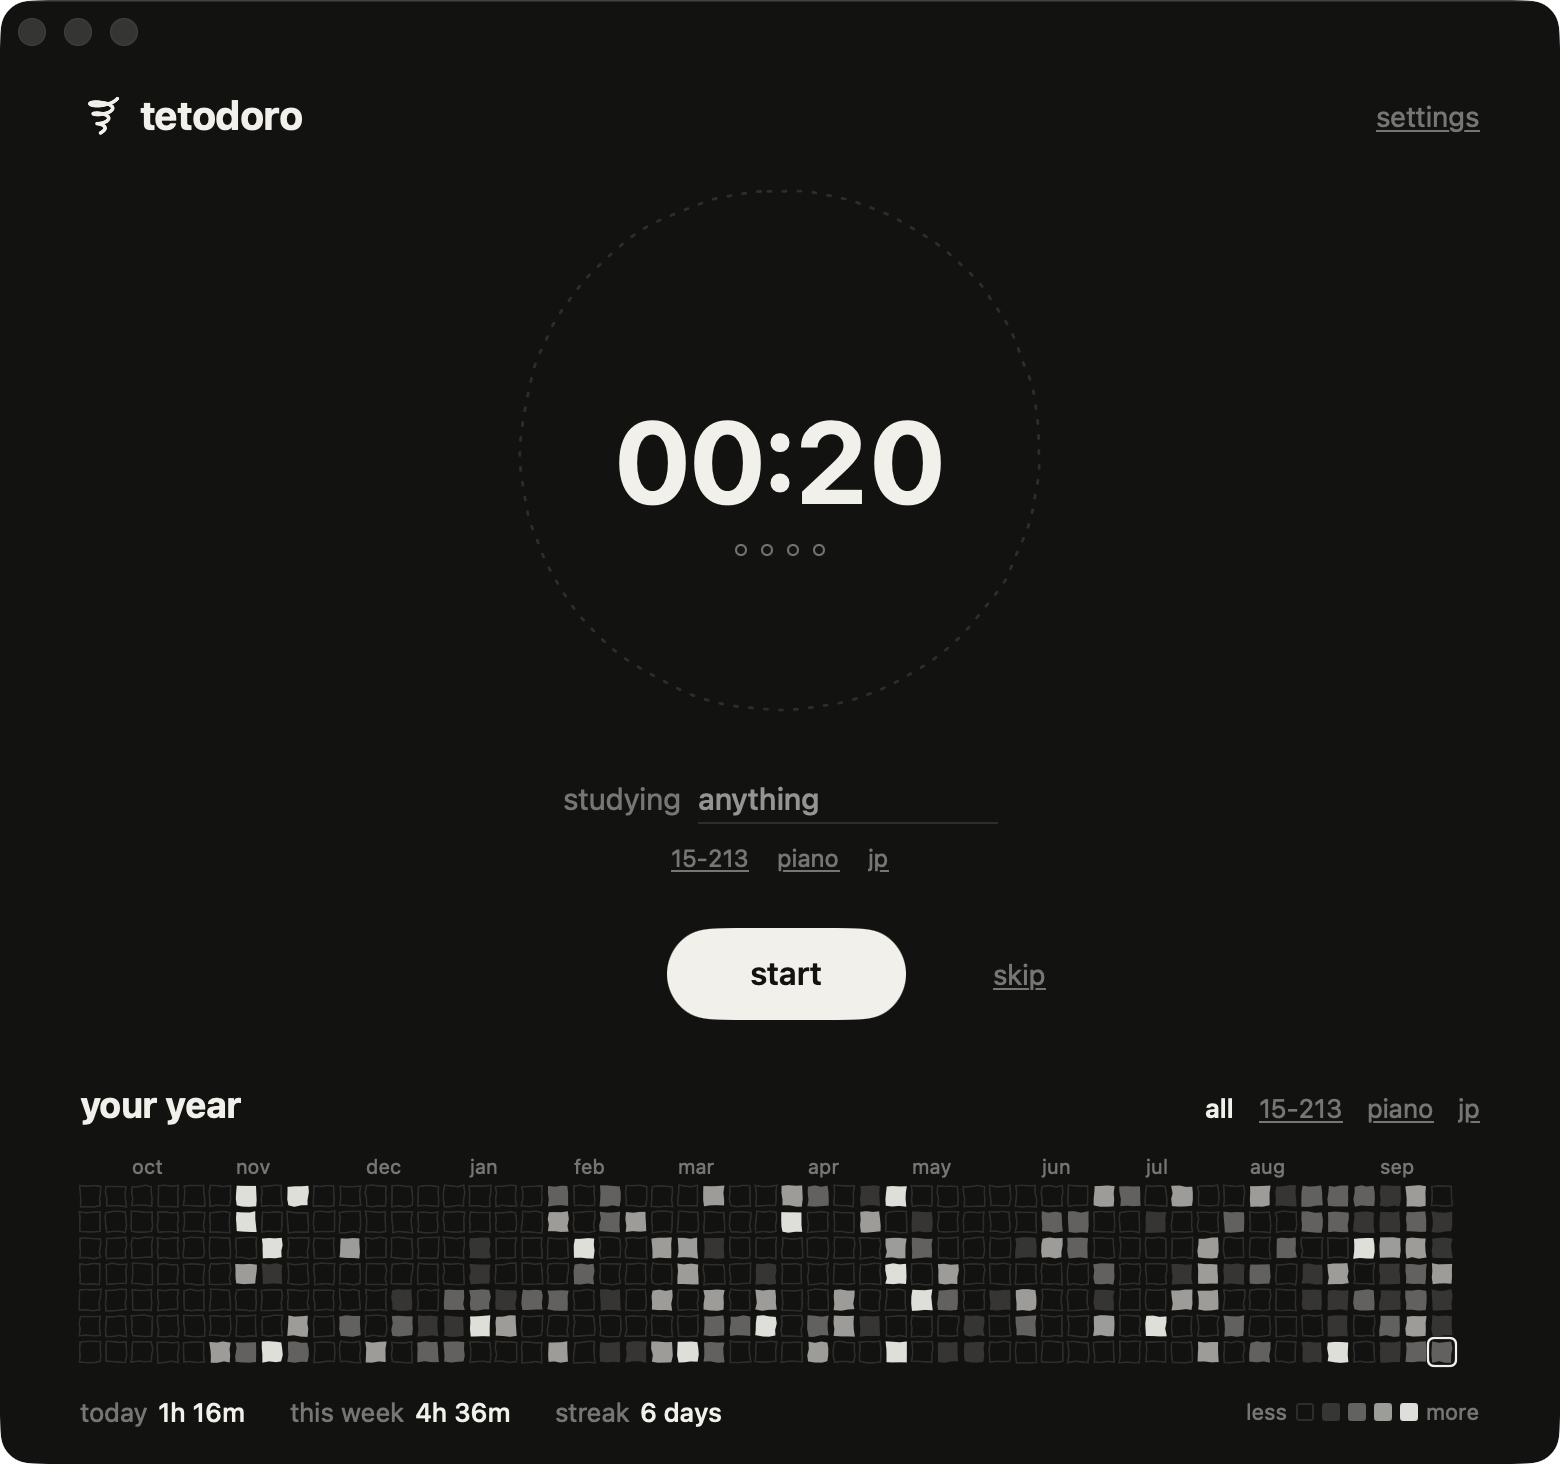
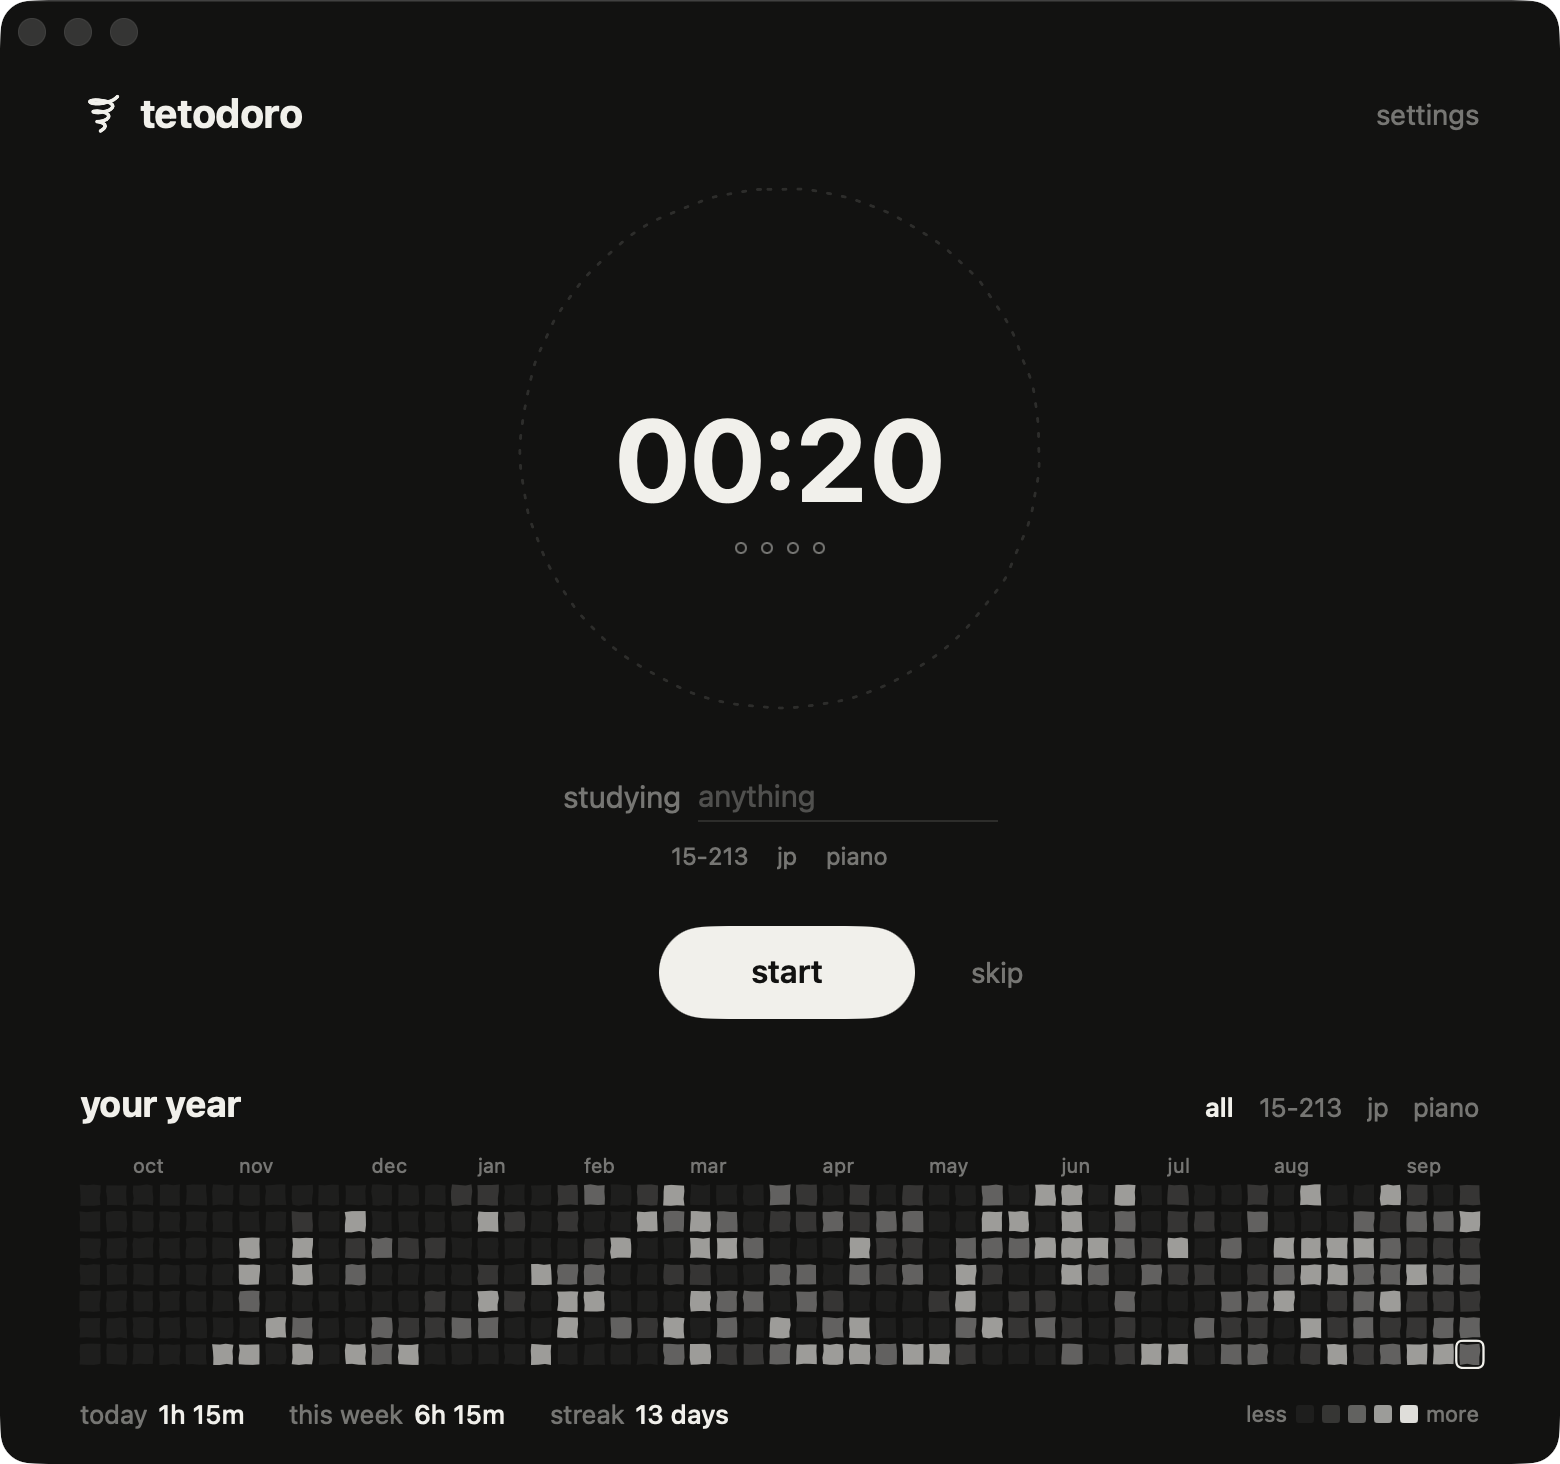
polish: quieter links, calmer heatmap, link the site in the readme
- secondary actions are faint words that darken on hover, no underlines
- empty heatmap days are a faint wash; the grid spans the full width
- the capsule keeps one width across start/pause
- settings: lowercase-friendly untitled window, labelled appearance row
- site: feature row, link previews, hover and focus states
- readme links the website; screenshots retaken

diff --git a/Sources/TetodoroApp/Views/HeatmapView.swift b/Sources/TetodoroApp/Views/HeatmapView.swift
@@ -74,49 +74,65 @@ private struct TagFilter: View {
 }
 
 private enum Cell {
-    static let size: CGFloat = 10
-    static let gap: CGFloat = 3
-    static let pitch = size + gap
+    /// Gap as a fraction of the pitch; the cell size follows from the width.
+    static let gapRatio: CGFloat = 0.24
     static let monthRow: CGFloat = 16
     static let margin: CGFloat = 3
     static let ink: [Double] = [0, 0.16, 0.36, 0.62, 0.92]
+    /// Empty days: a faint wash, quieter than an outline at 365 cells.
+    static let empty = Ink.ink.opacity(0.055)
+}
+
+/// Cell geometry for a grid of `columns` weeks stretched across `width`.
+private struct GridMetrics {
+    let pitch: CGFloat
+    var size: CGFloat { pitch * (1 - Cell.gapRatio) }
+    var height: CGFloat { Cell.monthRow + 7 * pitch - (pitch - size) + Cell.margin }
+
+    init(width: CGFloat, columns: Int) {
+        let usable = width - Cell.margin * 2
+        let n = CGFloat(max(columns, 1))
+        pitch = usable / (n - Cell.gapRatio)
+    }
 }
 
 private struct HeatGrid: View {
     let heatmap: Heatmap
     @Binding var hovered: HeatmapDay?
+    @State private var width: CGFloat = 706
 
     var body: some View {
-        let columns = heatmap.weeks.count
+        let m = GridMetrics(width: width, columns: heatmap.weeks.count)
         Canvas { ctx, _ in
             // Inset so the today/hover outline has room at the grid's edges.
             ctx.translateBy(x: Cell.margin, y: 0)
-            drawMonths(ctx)
+            drawMonths(ctx, m)
             for (w, week) in heatmap.weeks.enumerated() {
                 for (d, day) in week.enumerated() {
                     guard let day else { continue }
-                    draw(day, in: rect(w, d), seed: UInt64(w * 7 + d), ctx: ctx)
+                    draw(day, in: rect(w, d, m), seed: UInt64(w * 7 + d), ctx: ctx)
                 }
             }
         }
-        .frame(width: CGFloat(columns) * Cell.pitch - Cell.gap + Cell.margin * 2,
-               height: Cell.monthRow + 7 * Cell.pitch - Cell.gap + Cell.margin)
+        .frame(maxWidth: .infinity)
+        .frame(height: m.height)
+        .onGeometryChange(for: CGFloat.self, of: \.size.width) { width = $0 }
         .padding(.horizontal, -Cell.margin)
         .onContinuousHover { phase in
             switch phase {
-            case .active(let p): hovered = day(at: p)
+            case .active(let p): hovered = day(at: p, m)
             case .ended: hovered = nil
             }
         }
     }
 
-    private func rect(_ w: Int, _ d: Int) -> CGRect {
-        CGRect(x: CGFloat(w) * Cell.pitch, y: Cell.monthRow + CGFloat(d) * Cell.pitch,
-               width: Cell.size, height: Cell.size)
+    private func rect(_ w: Int, _ d: Int, _ m: GridMetrics) -> CGRect {
+        CGRect(x: CGFloat(w) * m.pitch, y: Cell.monthRow + CGFloat(d) * m.pitch,
+               width: m.size, height: m.size)
     }
 
-    private func day(at p: CGPoint) -> HeatmapDay? {
-        let w = Int((p.x - Cell.margin) / Cell.pitch), d = Int((p.y - Cell.monthRow) / Cell.pitch)
+    private func day(at p: CGPoint, _ m: GridMetrics) -> HeatmapDay? {
+        let w = Int((p.x - Cell.margin) / m.pitch), d = Int((p.y - Cell.monthRow) / m.pitch)
         guard p.y >= Cell.monthRow, heatmap.weeks.indices.contains(w), (0..<7).contains(d) else { return nil }
         return heatmap.weeks[w][d]
     }
@@ -125,20 +141,16 @@ private struct HeatGrid: View {
         let square = Doodle.polygon(
             [CGPoint(x: r.minX, y: r.minY), CGPoint(x: r.maxX, y: r.minY),
              CGPoint(x: r.maxX, y: r.maxY), CGPoint(x: r.minX, y: r.maxY)],
-            seed: seed &* 31 &+ 7, amp: 0.45)
-        if day.level > 0 {
-            ctx.fill(square, with: .color(Ink.accent.opacity(Cell.ink[day.level])))
-        } else {
-            ctx.stroke(square, with: .color(Ink.ghost), lineWidth: 0.8)
-        }
+            seed: seed &* 31 &+ 7, amp: 0.35)
+        ctx.fill(square, with: .color(day.level > 0 ? Ink.accent.opacity(Cell.ink[day.level]) : Cell.empty))
         let isToday = Calendar.current.isDateInToday(day.date)
         if isToday || day == hovered {
-            ctx.stroke(Path(roundedRect: r.insetBy(dx: -2, dy: -2), cornerRadius: 3),
-                       with: .color(Ink.ink), lineWidth: isToday ? 1.2 : 1)
+            ctx.stroke(Path(roundedRect: r.insetBy(dx: -1.75, dy: -1.75), cornerRadius: 3),
+                       with: .color(isToday ? Ink.ink : Ink.faint), lineWidth: 1.1)
         }
     }
 
-    private func drawMonths(_ ctx: GraphicsContext) {
+    private func drawMonths(_ ctx: GraphicsContext, _ m: GridMetrics) {
         let calendar = Calendar.current
         var lastMonth = -1
         for (w, week) in heatmap.weeks.enumerated() {
@@ -151,7 +163,7 @@ private struct HeatGrid: View {
                     ctx.draw(
                         Text(first.date.formatted(.dateTime.month(.abbreviated)).lowercased())
                             .font(Ink.text(10)).foregroundStyle(Ink.faint),
-                        at: CGPoint(x: CGFloat(w) * Cell.pitch, y: 0), anchor: .topLeading)
+                        at: CGPoint(x: CGFloat(w) * m.pitch, y: 0), anchor: .topLeading)
                 }
                 lastMonth = month
             }
@@ -165,8 +177,7 @@ private struct Legend: View {
             Text("less")
             ForEach(0..<5, id: \.self) { level in
                 RoundedRectangle(cornerRadius: 1.5)
-                    .fill(level == 0 ? Color.clear : Ink.accent.opacity(Cell.ink[level]))
-                    .overlay(RoundedRectangle(cornerRadius: 1.5).strokeBorder(level == 0 ? Ink.ghost : .clear))
+                    .fill(level == 0 ? Cell.empty : Ink.accent.opacity(Cell.ink[level]))
                     .frame(width: 9, height: 9)
             }
             Text("more")

diff --git a/site/index.html b/site/index.html
@@ -6,6 +6,15 @@
   <title>tetodoro</title>
   <meta name="description" content="a quiet pomodoro timer for mac.">
   <link rel="icon" href="icon.png">
+  <link rel="apple-touch-icon" href="icon.png">
+  <meta name="theme-color" content="#F2F0ED" media="(prefers-color-scheme: light)">
+  <meta name="theme-color" content="#121211" media="(prefers-color-scheme: dark)">
+  <meta property="og:type" content="website">
+  <meta property="og:url" content="https://mmerioles.github.io/tetodoro/">
+  <meta property="og:title" content="tetodoro">
+  <meta property="og:description" content="a quiet pomodoro timer for mac.">
+  <meta property="og:image" content="https://mmerioles.github.io/tetodoro/light-running.png">
+  <meta name="twitter:card" content="summary_large_image">
   <style>
     :root {
       --paper: #F2F0ED;
@@ -53,6 +62,7 @@
       text-decoration: none;
       transition: transform .15s ease;
     }
+    .download:hover { opacity: .86; }
     .download:active { transform: scale(.97); }
     .meta { color: var(--faint); font-size: 13px; margin-top: 12px; }
     .shot {
@@ -61,9 +71,27 @@
       margin-top: 56px;
       filter: drop-shadow(0 20px 40px rgba(0, 0, 0, .14));
     }
-    .note { color: var(--faint); font-size: 13px; margin-top: 40px; max-width: 460px; }
-    footer { margin-top: 28px; font-size: 13px; }
-    a.link { color: var(--faint); }
+    .features {
+      display: grid;
+      grid-template-columns: repeat(3, 1fr);
+      gap: 32px;
+      width: 100%;
+      max-width: 720px;
+      margin-top: 64px;
+      list-style: none;
+      padding: 0;
+      text-align: left;
+    }
+    .features b { display: block; font-weight: 600; }
+    .features span { color: var(--faint); font-size: 14px; }
+    @media (max-width: 600px) {
+      .features { grid-template-columns: 1fr; gap: 20px; }
+    }
+    .note { color: var(--faint); font-size: 13px; margin-top: 56px; max-width: 460px; }
+    footer { margin-top: 28px; font-size: 13px; display: flex; gap: 20px; }
+    a.link { color: var(--faint); text-decoration: none; }
+    a.link:hover { color: var(--ink); }
+    :focus-visible { outline: 2px solid var(--ink); outline-offset: 3px; }
   </style>
 </head>
 <body>
@@ -80,11 +108,20 @@
       <img class="shot" src="light-running.png" alt="tetodoro">
     </picture>
 
+    <ul class="features">
+      <li><b>focus, then rest</b><span>a pomodoro timer that starts your breaks for you.</span></li>
+      <li><b>tag what you study</b><span>see a year of focus time, per subject.</span></li>
+      <li><b>always in reach</b><span>the countdown lives in your menu bar.</span></li>
+    </ul>
+
     <p class="note">
       first open: if macOS says it can't verify the app, go to
       system settings → privacy &amp; security and click open anyway.
     </p>
-    <footer><a class="link" href="https://github.com/mmerioles/tetodoro">github</a></footer>
+    <footer>
+      <a class="link" href="https://github.com/mmerioles/tetodoro">github</a>
+      <a class="link" href="https://github.com/mmerioles/tetodoro/releases">releases</a>
+    </footer>
   </main>
 
   <script>

diff --git a/Sources/InkKit/Buttons.swift b/Sources/InkKit/Buttons.swift
@@ -3,23 +3,31 @@ import SwiftUI
 /// The one primary action per screen: an ink capsule with paper text.
 public struct InkCapsuleStyle: ButtonStyle {
     var size: CGFloat
+    var minWidth: CGFloat?
 
-    public init(size: CGFloat = 16) { self.size = size }
+    /// `minWidth` keeps the capsule steady when its label changes, e.g.
+    /// start → pause.
+    public init(size: CGFloat = 16, minWidth: CGFloat? = nil) {
+        self.size = size
+        self.minWidth = minWidth
+    }
 
     public func makeBody(configuration: Configuration) -> some View {
         configuration.label
             .font(Ink.text(size, .semibold))
             .foregroundStyle(Ink.paper)
             .padding(.horizontal, size * 2.6)
+            .frame(minWidth: minWidth)
             .padding(.vertical, size * 0.85)
             .background(Capsule().fill(Ink.ink))
+            .modifier(HoverFade())
             .scaleEffect(configuration.isPressed ? 0.96 : 1)
             .animation(Ink.snap, value: configuration.isPressed)
             .contentShape(Capsule())
     }
 }
 
-/// Everything secondary: faint, underlined lowercase words.
+/// Everything secondary: faint lowercase words that darken under the pointer.
 public struct InkLinkStyle: ButtonStyle {
     var size: CGFloat
     var selected: Bool
@@ -32,10 +40,34 @@ public struct InkLinkStyle: ButtonStyle {
     public func makeBody(configuration: Configuration) -> some View {
         configuration.label
             .font(Ink.text(size, selected ? .semibold : .regular))
-            .foregroundStyle(selected ? Ink.ink : Ink.faint)
-            .underline(!selected)
+            .modifier(LinkInk(selected: selected))
             .opacity(configuration.isPressed ? 0.5 : 1)
             .contentShape(Rectangle())
+    }
+}
+
+/// Faint at rest, full ink when hovered or selected.
+private struct LinkInk: ViewModifier {
+    var selected: Bool
+    @State private var hovered = false
+
+    func body(content: Content) -> some View {
+        content
+            .foregroundStyle(selected || hovered ? Ink.ink : Ink.faint)
+            .onHover { hovered = $0 }
+            .animation(.easeOut(duration: 0.12), value: hovered)
+    }
+}
+
+/// Fades its content slightly while the pointer is over it.
+private struct HoverFade: ViewModifier {
+    @State private var hovered = false
+
+    func body(content: Content) -> some View {
+        content
+            .opacity(hovered ? 0.86 : 1)
+            .onHover { hovered = $0 }
+            .animation(.easeOut(duration: 0.12), value: hovered)
     }
 }
 

diff --git a/Sources/TetodoroApp/Views/TimerView.swift b/Sources/TetodoroApp/Views/TimerView.swift
@@ -40,9 +40,8 @@ struct TimerView: View {
                     .opacity(model.isActive ? 1 : 0)
                     .disabled(!model.isActive)
                 Button(model.isRunning ? "pause" : (model.isActive ? "resume" : "start"), action: model.toggle)
-                    .buttonStyle(.inkCapsule)
+                    .buttonStyle(InkCapsuleStyle(minWidth: 128))
                     .keyboardShortcut(.defaultAction)
-                    .frame(minWidth: 150)
                 Button("skip", action: model.skip)
                     .buttonStyle(.inkLink)
             }
@@ -59,7 +58,9 @@ struct TimerView: View {
                     .font(Ink.text(15))
                     .foregroundStyle(Ink.faint)
                 VStack(spacing: 3) {
-                    TextField("", text: $model.tag, prompt: Text("anything").foregroundStyle(Ink.ghost))
+                    // AppKit draws `prompt` in its own grey and weight; an
+                    // overlay keeps the placeholder in the ink palette.
+                    TextField("", text: $model.tag)
                         .textFieldStyle(.plain)
                         .font(Ink.text(15, .medium))
                         .foregroundStyle(Ink.ink)
@@ -67,6 +68,12 @@ struct TimerView: View {
                         .onSubmit { tagFocused = false }
                         .tint(Ink.ink)
                         .frame(width: 150)
+                        .background(alignment: .leading) {
+                            if model.tag.isEmpty {
+                                Text("anything").font(Ink.text(15)).foregroundStyle(Ink.ink.opacity(0.28))
+                                    .allowsHitTesting(false)
+                            }
+                        }
                     Rectangle().fill(tagFocused ? Ink.faint : Ink.ghost).frame(height: 1)
                 }
                 .frame(width: 150)

diff --git a/Sources/TetodoroApp/Views/MenuBarViews.swift b/Sources/TetodoroApp/Views/MenuBarViews.swift
@@ -58,7 +58,7 @@ struct MenuBarPanel: View {
 
             HStack(spacing: 16) {
                 Button(model.isRunning ? "pause" : (model.isActive ? "resume" : "start"), action: model.toggle)
-                    .buttonStyle(InkCapsuleStyle(size: 13))
+                    .buttonStyle(InkCapsuleStyle(size: 13, minWidth: 64))
                 Button("skip", action: model.skip).buttonStyle(.inkLink(selected: false, size: 13))
                 if model.isActive {
                     Button("reset", action: model.reset).buttonStyle(.inkLink(selected: false, size: 13))
@@ -71,13 +71,14 @@ struct MenuBarPanel: View {
                 Text("today").foregroundStyle(Ink.faint)
                 Text(Copy.amount(model.heatmap.today)).foregroundStyle(Ink.ink).fontWeight(.medium)
                 Spacer()
-                Button("open") {
-                    openWindow(id: "main")
-                    NSApp.activate()
+                HStack(spacing: 14) {
+                    Button("open") {
+                        openWindow(id: "main")
+                        NSApp.activate()
+                    }
+                    Button("quit") { NSApp.terminate(nil) }
                 }
                 .buttonStyle(.inkLink(selected: false, size: 13))
-                Button("quit") { NSApp.terminate(nil) }
-                    .buttonStyle(.inkLink(selected: false, size: 13))
             }
             .font(Ink.text(13))
         }

diff --git a/Sources/TetodoroApp/Views/SettingsView.swift b/Sources/TetodoroApp/Views/SettingsView.swift
@@ -10,12 +10,10 @@ struct SettingsView: View {
 
         Form {
             Section {
-                Picker("", selection: $model.theme) {
+                Picker("appearance", selection: $model.theme) {
                     ForEach(Theme.allCases) { Text($0.rawValue).tag($0) }
                 }
                 .pickerStyle(.segmented)
-                .labelsHidden()
-                .frame(maxWidth: .infinity)
             }
             Section {
                 minutes("focus", \.focus, 5...120, step: 5)
@@ -37,6 +35,10 @@ struct SettingsView: View {
         .tint(Ink.ink)
         .frame(width: 420)
         .fixedSize(horizontal: false, vertical: true)
+        // The system titles this window "Tetodoro Settings"; the app speaks
+        // in lowercase, so the title goes and the paper runs to the top.
+        .toolbar(removing: .title)
+        .toolbarBackgroundVisibility(.hidden, for: .windowToolbar)
     }
 
     private func minutes(_ label: String, _ key: WritableKeyPath<TimerConfig, TimeInterval>,

diff --git a/README.md b/README.md
@@ -8,7 +8,10 @@
   <img src="https://img.shields.io/badge/macOS-15%2B-2B2A2F?style=flat-square&logo=apple" alt="macOS 15+">
 </p>
 
-<p align="center">a quiet pomodoro timer for mac.</p>
+<p align="center">
+  a quiet pomodoro timer for mac.<br>
+  <a href="https://mmerioles.github.io/tetodoro/"><b>mmerioles.github.io/tetodoro</b></a>
+</p>
 
 <p align="center">
   <img src="docs/screenshots/light-running.png" width="49%" alt="light">
